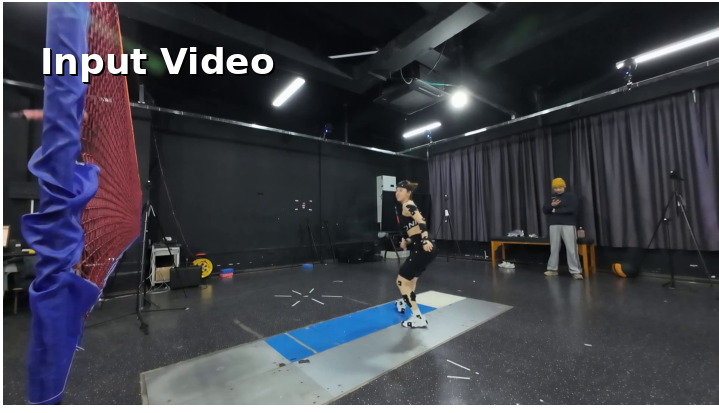
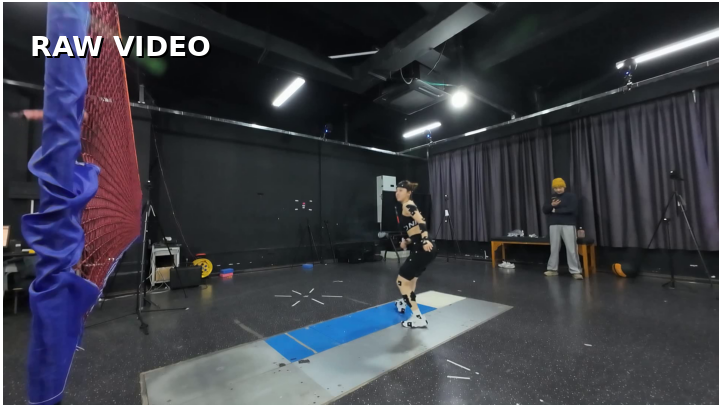
docs: completely revamp visual design to a modern HUD style with 3D force plate floor grid and PiP dynamics curve, avoiding blocking the player

Changed region(s): [[0.0306, 0.0872, 0.3978, 0.2034]]

diff --git a/tools/generate_revamped_comparison.py b/tools/generate_revamped_comparison.py
@@ -1,0 +1,164 @@
+import cv2
+import numpy as np
+from pathlib import Path
+from PIL import Image, ImageDraw, ImageFont
+
+def draw_hud_text(img_pil, text, pos, font_size, color=(255, 255, 255), bold=False):
+    draw = ImageDraw.Draw(img_pil)
+    try:
+        font_path = "/usr/share/fonts/truetype/dejavu/DejaVuSans-Bold.ttf" if bold else "/usr/share/fonts/truetype/dejavu/DejaVuSans.ttf"
+        font = ImageFont.truetype(font_path, font_size)
+    except:
+        font = ImageFont.load_default()
+        
+    x, y = pos
+    # Text shadow for readability
+    draw.text((x+2, y+2), text, font=font, fill=(0, 0, 0, 180))
+    draw.text((x, y), text, font=font, fill=color)
+    return img_pil
+
+def create_revamped_comparison(base_dir):
+    rank_dir = base_dir / "runs/fig1_asset_pack_v6/per_rank/rank_001_cam04"
+    storyboard_path = rank_dir / "storyboard_raw_skeleton_curve.png"
+    
+    if not storyboard_path.exists():
+        print("Storyboard image not found!")
+        return
+        
+    img = cv2.imread(str(storyboard_path))
+    h, w = img.shape[:2]
+    
+    col_w = w // 3
+    row1_h = int(h * (1 / 3.1))
+    row2_h = int(h * (2 / 3.1))
+    
+    # Extract patches
+    raw_patch = img[0:row1_h, col_w:col_w*2]
+    skel_patch = img[row1_h:row2_h, col_w:col_w*2]
+    curve_patch = img[row2_h:h, col_w:col_w*2]
+    
+    # Ensure they have exact same height for compositing
+    min_h = min(raw_patch.shape[0], skel_patch.shape[0])
+    raw_patch = raw_patch[:min_h, :]
+    skel_patch = skel_patch[:min_h, :]
+    
+    patch_h, patch_w = raw_patch.shape[:2]
+    
+    # --- DESIGNING THE LEFT IMAGE (Raw Input) ---
+    img_before = raw_patch.copy()
+    
+    # Add a clean, modern label
+    img_before_pil = Image.fromarray(cv2.cvtColor(img_before, cv2.COLOR_BGR2RGB))
+    draw_hud_text(img_before_pil, "RAW VIDEO", (30, 30), 28, color=(255, 255, 255), bold=True)
+    img_before = cv2.cvtColor(np.array(img_before_pil), cv2.COLOR_RGB2BGR)
+    
+    # --- DESIGNING THE RIGHT IMAGE (AI GRF Estimation - Completely Revamped) ---
+    # Instead of drawing on the raw image, we will use the skeleton image but make it look like a high-end diagnostic UI.
+    img_after = skel_patch.copy()
+    
+    # 1. Dim the background slightly to make UI pop
+    img_after = (img_after * 0.85).astype(np.uint8)
+    
+    # 2. Draw a 3D-perspective "Force Plate" projection on the ground
+    # We estimate the floor plane polygon
+    # Center of force plate roughly where the feet are
+    cx, cy = int(patch_w * 0.55), int(patch_h * 0.85)
+    plate_w, plate_h = 160, 60
+    
+    # Create a perspective polygon
+    pts = np.array([
+        [cx - plate_w, cy - plate_h//2],
+        [cx + plate_w, cy - plate_h//2],
+        [cx + plate_w + 40, cy + plate_h],
+        [cx - plate_w - 40, cy + plate_h]
+    ], np.int32)
+    
+    # Draw glowing force plate area
+    overlay = img_after.copy()
+    cv2.fillPoly(overlay, [pts], (0, 120, 255)) # Orange-ish glow
+    img_after = cv2.addWeighted(overlay, 0.3, img_after, 0.7, 0)
+    
+    # Draw grid lines on the plate to make it look technical
+    cv2.polylines(img_after, [pts], True, (0, 165, 255), 2, cv2.LINE_AA)
+    
+    # Draw vertical grid lines within the polygon
+    for i in range(1, 4):
+        x_top = cx - plate_w + int((2*plate_w) * (i/4))
+        x_bot = cx - plate_w - 40 + int((2*(plate_w+40)) * (i/4))
+        cv2.line(img_after, (x_top, cy - plate_h//2), (x_bot, cy + plate_h), (0, 165, 255), 1, cv2.LINE_AA)
+        
+    # Draw horizontal grid lines
+    for i in range(1, 3):
+        y_pos = cy - plate_h//2 + int((plate_h + plate_h//2) * (i/3))
+        # Interpolate x bounds for this y
+        alpha = i/3
+        x_left = int((cx - plate_w) * (1-alpha) + (cx - plate_w - 40) * alpha)
+        x_right = int((cx + plate_w) * (1-alpha) + (cx + plate_w + 40) * alpha)
+        cv2.line(img_after, (x_left, y_pos), (x_right, y_pos), (0, 165, 255), 1, cv2.LINE_AA)
+    
+    # 3. Insert the GRF Curve nicely into the corner (Picture-in-Picture)
+    # Crop the actual curve to remove axes/margins if possible, or just scale it
+    curve_h, curve_w = curve_patch.shape[:2]
+    pip_w = int(patch_w * 0.4)
+    pip_h = int(curve_h * (pip_w / curve_w))
+    curve_resized = cv2.resize(curve_patch, (pip_w, pip_h))
+    
+    # Create a nice dark semi-transparent panel for the curve
+    panel_margin = 20
+    panel_x = patch_w - pip_w - panel_margin
+    panel_y = patch_h - pip_h - panel_margin
+    
+    # Dark panel background
+    panel_overlay = img_after.copy()
+    cv2.rectangle(panel_overlay, (panel_x-10, panel_y-40), (panel_x+pip_w+10, panel_y+pip_h+10), (20, 20, 25), -1)
+    img_after = cv2.addWeighted(panel_overlay, 0.85, img_after, 0.15, 0)
+    
+    # Add the curve image
+    img_after[panel_y:panel_y+pip_h, panel_x:panel_x+pip_w] = cv2.addWeighted(
+        img_after[panel_y:panel_y+pip_h, panel_x:panel_x+pip_w], 0.1,
+        curve_resized, 0.9, 0
+    )
+    
+    # Add UI Borders and Title to the panel
+    cv2.rectangle(img_after, (panel_x-10, panel_y-40), (panel_x+pip_w+10, panel_y+pip_h+10), (100, 100, 100), 1)
+    
+    # 4. Add Modern Typography
+    img_after_pil = Image.fromarray(cv2.cvtColor(img_after, cv2.COLOR_BGR2RGB))
+    
+    # Main Title
+    draw_hud_text(img_after_pil, "AI GRF ESTIMATION", (30, 30), 28, color=(0, 255, 150), bold=True)
+    
+    # Panel Title
+    draw_hud_text(img_after_pil, "REAL-TIME DYNAMICS (Fz)", (panel_x, panel_y - 25), 14, color=(200, 200, 200), bold=True)
+    
+    # Large Value Display (HUD Style)
+    draw_hud_text(img_after_pil, "IMPACT", (30, patch_h - 100), 18, color=(200, 200, 200))
+    draw_hud_text(img_after_pil, "2.45", (30, patch_h - 75), 48, color=(0, 165, 255), bold=True)
+    draw_hud_text(img_after_pil, "BW", (140, patch_h - 55), 24, color=(0, 165, 255))
+    
+    img_after = cv2.cvtColor(np.array(img_after_pil), cv2.COLOR_RGB2BGR)
+    
+    # --- COMPOSE SIDE-BY-SIDE ---
+    # No white gap, seamless modern look
+    total_w = patch_w * 2
+    canvas = np.zeros((patch_h, total_w, 3), dtype=np.uint8)
+    
+    canvas[:, :patch_w] = img_before
+    canvas[:, patch_w:] = img_after
+    
+    # Draw a thin, elegant separator line
+    cv2.line(canvas, (patch_w, 0), (patch_w, patch_h), (50, 50, 50), 2)
+    
+    out_dir = base_dir / "docs/demo_content"
+    out_path = out_dir / "readme_comparison.png"
+    cv2.imwrite(str(out_path), canvas)
+    
+    # Save individual for slider
+    cv2.imwrite(str(out_dir / "slider_before.png"), img_before)
+    cv2.imwrite(str(out_dir / "slider_after.png"), img_after)
+    
+    print(f"Created revamped {out_path}")
+
+if __name__ == "__main__":
+    base_dir = Path("/home/nky/BadmintonGRF")
+    create_revamped_comparison(base_dir)
